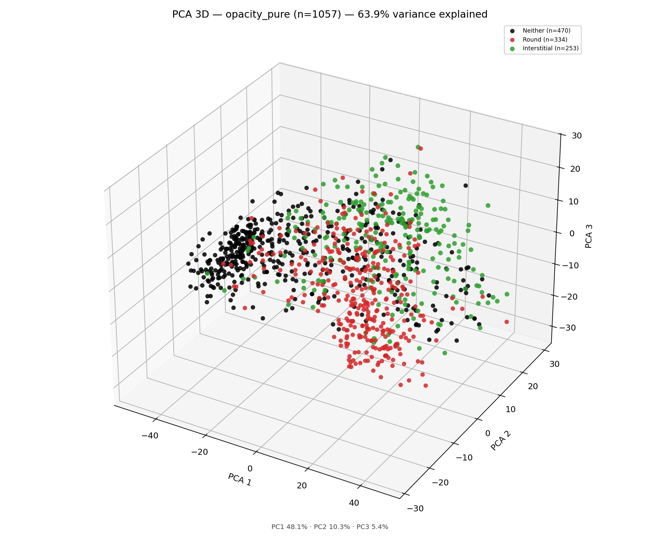
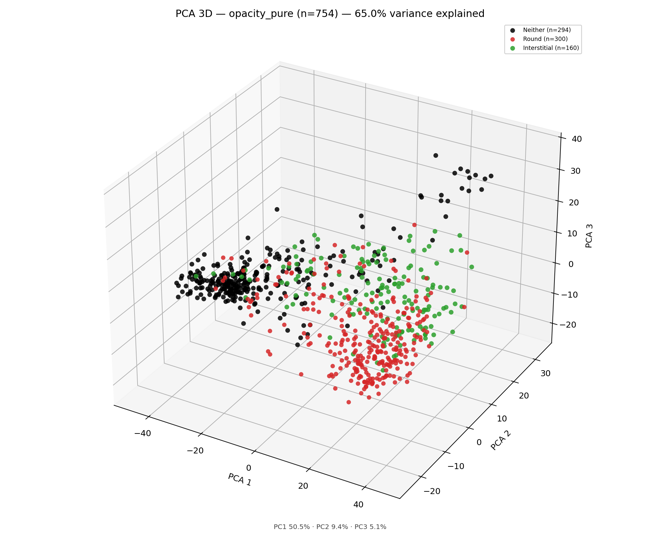
Update Graphs

diff --git a/README.md b/README.md
@@ -264,6 +264,9 @@ artifacts live in the training repo under `visualizations/out/ark_alllabels/`.
 
 ### Small-opacity type (pure)
 
+Same **n = 754** cohort as the deployed `small_opacities_multiclass_pure` head
+(Neither / Round / Interstitial; Mixed dropped; Q3A=N; strict-normal neither).
+
 **PCA**
 
 ![Ark opacity type PCA](./images/projections/ark_opacity_type_pca.png)
